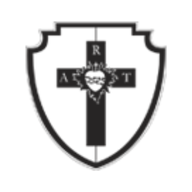
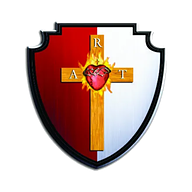
Ícono y pantalla de arranque con el escudo del Regnum Christi a color, en alta resolución; la tarea semanal ya no cambia el ícono
Claude-Session: https://claude.ai/code/session_01KMgNYkkFJd8RVrzyPQuiyA

diff --git a/index.html b/index.html
@@ -1,4 +1,4 @@
-<!doctype html><html lang="es"><head><meta name="apple-mobile-web-app-capable" content="yes"><meta name="mobile-web-app-capable" content="yes"><meta name="apple-mobile-web-app-status-bar-style" content="default"><meta name="apple-mobile-web-app-title" content="Venga tu Reino"><meta name="theme-color" content="#FFFFFF"><link rel="manifest" href="manifest.webmanifest"><link rel="apple-touch-icon" href="icon-180.png"><link rel="apple-touch-startup-image" media="(device-width: 375px) and (device-height: 667px) and (-webkit-device-pixel-ratio: 2) and (orientation: portrait)" href="splash/750x1334.png"><link rel="apple-touch-startup-image" media="(device-width: 414px) and (device-height: 896px) and (-webkit-device-pixel-ratio: 2) and (orientation: portrait)" href="splash/828x1792.png"><link rel="apple-touch-startup-image" media="(device-width: 375px) and (device-height: 812px) and (-webkit-device-pixel-ratio: 3) and (orientation: portrait)" href="splash/1125x2436.png"><link rel="apple-touch-startup-image" media="(device-width: 414px) and (device-height: 896px) and (-webkit-device-pixel-ratio: 3) and (orientation: portrait)" href="splash/1242x2688.png"><link rel="apple-touch-startup-image" media="(device-width: 390px) and (device-height: 844px) and (-webkit-device-pixel-ratio: 3) and (orientation: portrait)" href="splash/1170x2532.png"><link rel="apple-touch-startup-image" media="(device-width: 428px) and (device-height: 926px) and (-webkit-device-pixel-ratio: 3) and (orientation: portrait)" href="splash/1284x2778.png"><link rel="apple-touch-startup-image" media="(device-width: 393px) and (device-height: 852px) and (-webkit-device-pixel-ratio: 3) and (orientation: portrait)" href="splash/1179x2556.png"><link rel="apple-touch-startup-image" media="(device-width: 430px) and (device-height: 932px) and (-webkit-device-pixel-ratio: 3) and (orientation: portrait)" href="splash/1290x2796.png"><link rel="apple-touch-startup-image" media="(device-width: 402px) and (device-height: 874px) and (-webkit-device-pixel-ratio: 3) and (orientation: portrait)" href="splash/1206x2622.png"><link rel="apple-touch-startup-image" media="(device-width: 440px) and (device-height: 956px) and (-webkit-device-pixel-ratio: 3) and (orientation: portrait)" href="splash/1320x2868.png"><link rel="apple-touch-startup-image" media="(device-width: 420px) and (device-height: 912px) and (-webkit-device-pixel-ratio: 3) and (orientation: portrait)" href="splash/1260x2736.png"><link rel="icon" href="icon-192.png"><title>Venga tu Reino</title><meta charset=utf8><meta name="color-scheme" content="light dark"><meta name=viewport content="width=device-width,initial-scale=1,viewport-fit=cover"><style>:root{color-scheme:light dark;box-sizing:border-box;padding-top:env(safe-area-inset-top,0px);padding-bottom:env(safe-area-inset-bottom,0px)}html{scroll-padding-top:env(safe-area-inset-top,0px)}body{margin:0;padding:0;font:14px -apple-system,BlinkMacSystemFont,sans-serif;background:#fff;color:#000}img{max-width:100%}[hidden]:not([hidden=until-found i]){display:none!important}</style></head><body><svg xmlns="http://www.w3.org/2000/svg" style="display:none"><symbol id="i-chevron-left" viewBox="0 0 24 24"><path d="m15 18-6-6 6-6" /></symbol><symbol id="i-chevron-right" viewBox="0 0 24 24"><path d="m9 18 6-6-6-6" /></symbol><symbol id="i-download" viewBox="0 0 24 24"><path d="M21 15v4a2 2 0 0 1-2 2H5a2 2 0 0 1-2-2v-4" />
+<!doctype html><html lang="es"><head><meta name="apple-mobile-web-app-capable" content="yes"><meta name="mobile-web-app-capable" content="yes"><meta name="apple-mobile-web-app-status-bar-style" content="default"><meta name="apple-mobile-web-app-title" content="Venga tu Reino"><meta name="theme-color" content="#FFFFFF"><link rel="manifest" href="manifest.webmanifest"><link rel="apple-touch-icon" href="icon-180.png?v=rc2"><link rel="apple-touch-startup-image" media="(device-width: 375px) and (device-height: 667px) and (-webkit-device-pixel-ratio: 2) and (orientation: portrait)" href="splash/750x1334.png"><link rel="apple-touch-startup-image" media="(device-width: 414px) and (device-height: 896px) and (-webkit-device-pixel-ratio: 2) and (orientation: portrait)" href="splash/828x1792.png"><link rel="apple-touch-startup-image" media="(device-width: 375px) and (device-height: 812px) and (-webkit-device-pixel-ratio: 3) and (orientation: portrait)" href="splash/1125x2436.png"><link rel="apple-touch-startup-image" media="(device-width: 414px) and (device-height: 896px) and (-webkit-device-pixel-ratio: 3) and (orientation: portrait)" href="splash/1242x2688.png"><link rel="apple-touch-startup-image" media="(device-width: 390px) and (device-height: 844px) and (-webkit-device-pixel-ratio: 3) and (orientation: portrait)" href="splash/1170x2532.png"><link rel="apple-touch-startup-image" media="(device-width: 428px) and (device-height: 926px) and (-webkit-device-pixel-ratio: 3) and (orientation: portrait)" href="splash/1284x2778.png"><link rel="apple-touch-startup-image" media="(device-width: 393px) and (device-height: 852px) and (-webkit-device-pixel-ratio: 3) and (orientation: portrait)" href="splash/1179x2556.png"><link rel="apple-touch-startup-image" media="(device-width: 430px) and (device-height: 932px) and (-webkit-device-pixel-ratio: 3) and (orientation: portrait)" href="splash/1290x2796.png"><link rel="apple-touch-startup-image" media="(device-width: 402px) and (device-height: 874px) and (-webkit-device-pixel-ratio: 3) and (orientation: portrait)" href="splash/1206x2622.png"><link rel="apple-touch-startup-image" media="(device-width: 440px) and (device-height: 956px) and (-webkit-device-pixel-ratio: 3) and (orientation: portrait)" href="splash/1320x2868.png"><link rel="apple-touch-startup-image" media="(device-width: 420px) and (device-height: 912px) and (-webkit-device-pixel-ratio: 3) and (orientation: portrait)" href="splash/1260x2736.png"><link rel="icon" href="icon-192.png"><title>Venga tu Reino</title><meta charset=utf8><meta name="color-scheme" content="light dark"><meta name=viewport content="width=device-width,initial-scale=1,viewport-fit=cover"><style>:root{color-scheme:light dark;box-sizing:border-box;padding-top:env(safe-area-inset-top,0px);padding-bottom:env(safe-area-inset-bottom,0px)}html{scroll-padding-top:env(safe-area-inset-top,0px)}body{margin:0;padding:0;font:14px -apple-system,BlinkMacSystemFont,sans-serif;background:#fff;color:#000}img{max-width:100%}[hidden]:not([hidden=until-found i]){display:none!important}</style></head><body><svg xmlns="http://www.w3.org/2000/svg" style="display:none"><symbol id="i-chevron-left" viewBox="0 0 24 24"><path d="m15 18-6-6 6-6" /></symbol><symbol id="i-chevron-right" viewBox="0 0 24 24"><path d="m9 18 6-6-6-6" /></symbol><symbol id="i-download" viewBox="0 0 24 24"><path d="M21 15v4a2 2 0 0 1-2 2H5a2 2 0 0 1-2-2v-4" />
   <polyline points="7 10 12 15 17 10" />
   <line x1="12" x2="12" y1="15" y2="3" /></symbol><symbol id="i-image" viewBox="0 0 24 24"><rect width="18" height="18" x="3" y="3" rx="2" ry="2" />
   <circle cx="9" cy="9" r="2" />

diff --git a/sw.js b/sw.js
@@ -1,7 +1,7 @@
 /* Venga tu Reino: funciona sin conexión. La app y sus textos se guardan en el teléfono.
    hoy.js (el Evangelio del día) se busca primero en internet y, si no hay, se usa el último guardado.
    dias/AAAA-MM-DD.js (los días preparados por adelantado) y dias/linea.json (línea del tiempo) también se guardan, para que la app cambie de día sin internet. */
-const V='vtr-v43';
+const V='vtr-v44';
 /* Las pinturas en versión para teléfono se guardan en segundo plano, para que después abran al instante. */
 const IMGS=['basilica','cena','corazon','getsemani','inmaculada','pieta','plaza','resurreccion','virgen'].map(k=>'assets/img/'+k+'-m.webp');
 /* (nov 2026) La Biblia ya no se guarda: las lecturas se abren en Vatican News. */

diff --git a/tareas/rc.py b/tareas/rc.py
@@ -4,7 +4,6 @@
 - assets/rc/escudo.png    escudo (ícono del sitio) para el ícono de la app
 - assets/rc/n1..n6.webp   fotos de las noticias, en versión para teléfono
 - assets/rc/rc.json       títulos, fechas y enlaces de las noticias
-- icon-180/192/512.png    ícono de la app hecho con el escudo, sobre blanco
 
 Lo ejecuta el workflow «Regnum Christi» (cada semana y cuando cambia este archivo).
 Si algo no se encuentra, deja lo que había y lo dice en el registro.
@@ -151,17 +150,7 @@ if blancas:
     resumen['logo_blanco'] = DIR + '/logo-blanco.png'
     print('Logotipo blanco:', u, im.size)
 
-# 3) Ícono de la app: el escudo centrado sobre blanco (el manual pide fondo blanco y no deformarlo)
-if escudo:
-    base = recortar_blanco(escudo, 0)
-    for n in (180, 192, 512):
-        lienzo = Image.new('RGB', (n, n), (255, 255, 255))
-        lado = round(n * 0.78)
-        k = lado / max(base.size)
-        e = base.resize((max(1, round(base.size[0] * k)), max(1, round(base.size[1] * k))), Image.LANCZOS)
-        lienzo.paste(e, ((n - e.size[0]) // 2, (n - e.size[1]) // 2))
-        lienzo.save('icon-%d.png' % n, optimize=True)
-    print('Íconos de la app hechos con el escudo')
+# 3) El ícono de la app usa el escudo a color (assets/rc/escudo-color.png), que no se toca aquí.
 
 # 4) Últimas noticias con foto: el canal RSS del sitio y la foto principal (og:image) de cada noticia
 noticias = []
